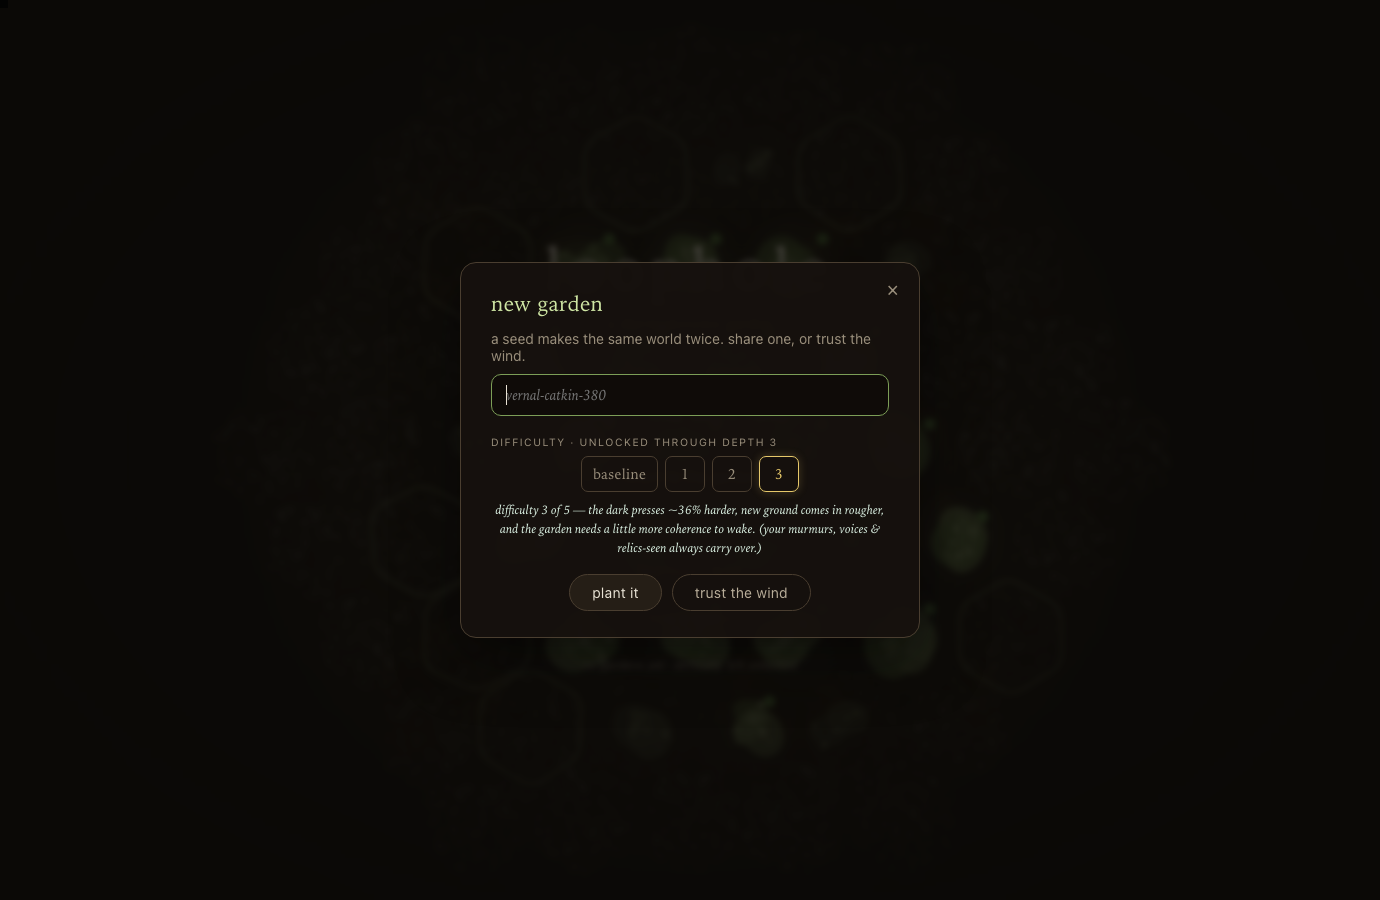
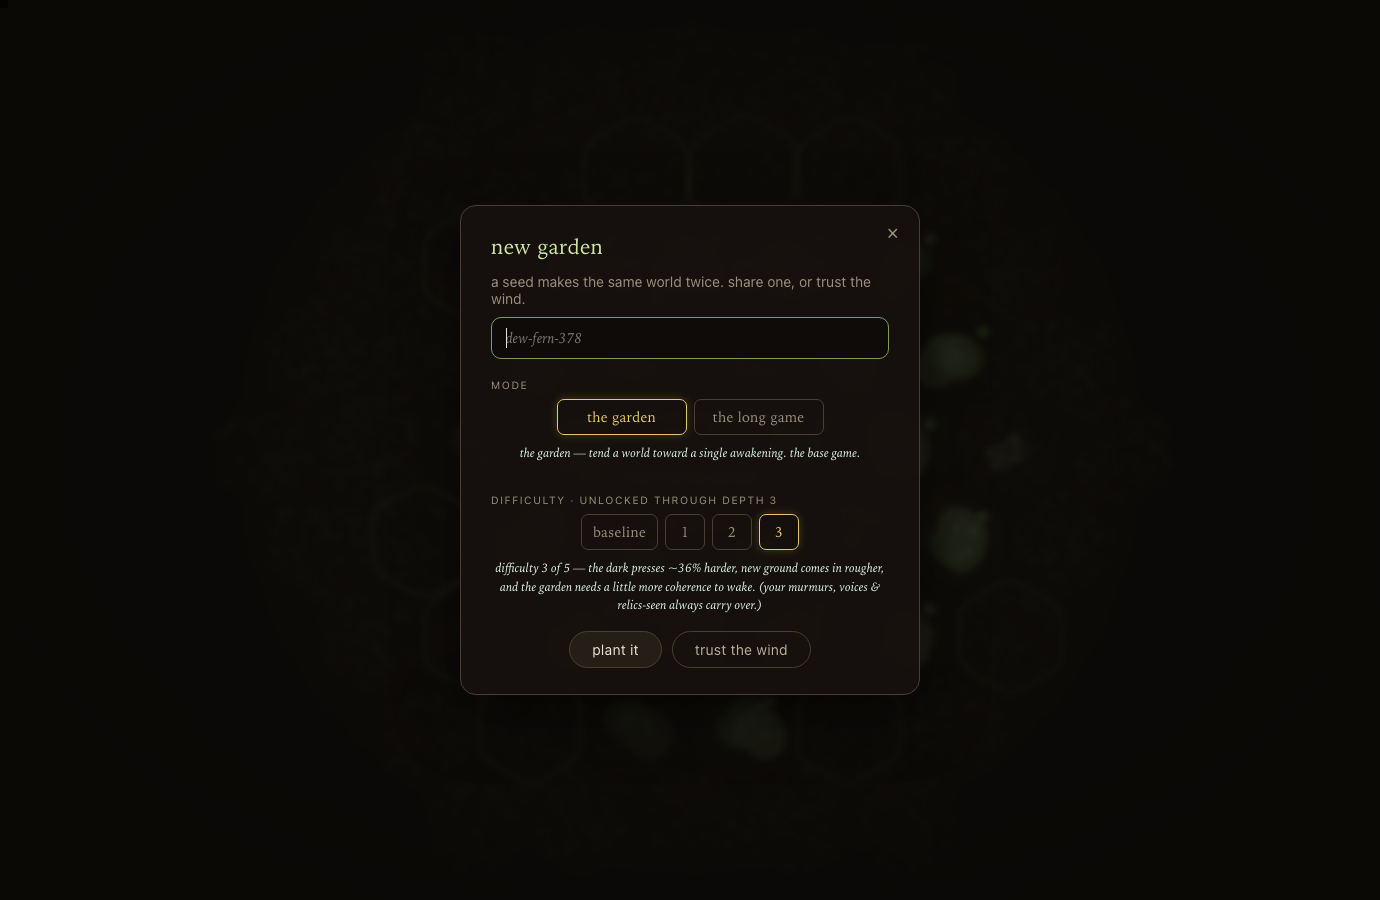
second game mode: the long game (flourish by turn 100)
The meta-game as a separate mode, so the base game stays stable and
debuggable while the deeper ideas grow in their own room (per your call).

- new-garden screen gains a MODE picker (the garden / the long game),
  beside difficulty, each with a live description.
- "the garden" = the base game, untouched (awaken toward coherence).
- "the long game" = no single awakening. cultivate the richest, most
  lasting world you can; at turn 100 it's scored on what it SUSTAINS —
  coherence held, scale, diversity, blossoms, network, disorder devoured,
  epochs reached. a grade from "a fragile beginning" to "a flourishing
  world". best flourish tracked + shown on the title.

Holistic note: the score rewards DIVERSITY (×45/kind) + blooms + network +
eaten, so the moss-carpet "spam space" idle scores low — the long game's
own measure discourages the exploit and rewards a real ecology. This is
also the natural home for the future blueprint/fauna scoring.

core: game.mode (serialized); flourishScore/Grade/Breakdown; longEnd at
turn 100; beginCoalescence is a no-op in longgame (core-enforced, not just
UI). ui: mode threaded through newRun; long-game HUD; onLongEnd score
overlay; coalesce panel hidden in longgame.

verified: harness ALL PASS / 24-24 (garden mode unchanged); mode picker +
end screen render (shots/newgarden.png, shots/longend.png); flourish scores
computed across seeds.

Changed region(s): [[0.3428, 0.4356, 0.6543, 0.7467], [0.3428, 0.2489, 0.6232, 0.4356]]

diff --git a/loophole/js/ui.js b/loophole/js/ui.js
@@ -16,7 +16,7 @@
   const KEY = 'loophole_v1';
   const defaultMeta = () => ({
     echoes: [], codex: [], runs: 0, wins: 0, best: null,
-    asc: 0, muted: false, values: false, hints: [], quotes: [],
+    asc: 0, muted: false, values: false, hints: [], quotes: [], bestFlourish: null,
   });
   let store = { v: 1, meta: defaultMeta(), run: null };
   try {
@@ -377,8 +377,13 @@
   function updateHUD() {
     if (!game) return;
     const st = C().STAGES[game.stage - 1];
-    $('stagename').textContent = st.name + ' · ' + C().roman(game.stage - 1);
-    $('stageblurb').textContent = st.blurb;
+    if (game.mode === 'longgame') {
+      $('stagename').textContent = 'the long game · ✦ ' + game.flourishScore();
+      $('stageblurb').textContent = st.name + ' — flourish by turn ' + game.turn + '/100';
+    } else {
+      $('stagename').textContent = st.name + ' · ' + C().roman(game.stage - 1);
+      $('stageblurb').textContent = st.blurb;
+    }
     if (LP.Music && LP.Music.running) LP.Music.setState(game.stage, game.coherence());
     $('order').textContent = Math.floor(game.order);
     $('income').textContent = lastIncome != null ? ('+' + lastIncome) : '';
@@ -418,9 +423,9 @@
       rb.textContent = coReady ? '❀' : (n || '');
       $('railbtn').classList.toggle('ripe', n > 0);
     }
-    /* coalesce panel */
+    /* coalesce panel (the long game has no single awakening — it runs to turn 100) */
     const cp = $('coalesce');
-    if (game.stage === 6 && !game.over) {
+    if (game.stage === 6 && !game.over && game.mode !== 'longgame') {
       cp.classList.remove('hidden');
       const checks = game.coalesceChecks();
       $('cochecks').innerHTML = checks.map(c =>
@@ -697,6 +702,7 @@
           break;
         case 'dissolveWarn': toast('the garden thins — coherence below 22% (' + e.streak + '/3)', 'warn', 5200); break;
         case 'dissolved': onDissolved(); break;
+        case 'longEnd': onLongEnd(e.score, e.grade); break;
         case 'saved': toast('« ' + e.via + ' » intercedes. the garden holds.', 'good', 6000); buildRail(); break;
         case 'coalesceReady': hint('coalesce'); break;
         case 'demon': break;
@@ -1230,6 +1236,33 @@
     }, { dismissible: false }), 900);
   }
 
+  /* the long game's ending: turn 100, a flourish score, no single awakening */
+  function onLongEnd(score, grade) {
+    AU.coalesce(); music('coalesce');
+    meta.runs++; meta.wins++;
+    if (meta.bestFlourish == null || score > meta.bestFlourish) meta.bestFlourish = score;
+    store.run = null; save();
+    const g = game;
+    const rows = g.flourishBreakdown().map(([label, val]) => `<div>${label}</div><div>+${val}</div>`).join('');
+    const best = meta.bestFlourish;
+    setTimeout(() => pushOverlay((wrap, close) => {
+      const box = el('div', 'panelbox endbox');
+      box.innerHTML = `
+        <div class="paneltitle">a hundred turns</div>
+        <p class="endnote">${grade}.</p>
+        <div class="flourishbig">✦ ${score}${best > score ? '' : ' <span class="muted small">— your best</span>'}</div>
+        <div class="statgrid">${rows}</div>
+        ${statsHTML(g)}
+        <div class="endbtns">
+          <button id="e-again">grow another</button>
+          <button id="e-title" class="ghostbtn">title</button>
+        </div>`;
+      box.querySelector('#e-again').onclick = () => { close(); newRun(undefined, g.asc, 'longgame'); };
+      box.querySelector('#e-title').onclick = () => { close(); showTitle(); };
+      wrap.appendChild(box);
+    }, { dismissible: false }), 900);
+  }
+
   function beginCoalescence() {
     if (!game.coalesceReady()) return;
     game.beginCoalescence();
@@ -1304,7 +1337,8 @@
     $('t-meta').textContent =
       (meta.runs ? `${meta.runs} garden${meta.runs > 1 ? 's' : ''} grown · ${meta.wins} awakened` : 'no gardens yet') +
       (meta.best ? ` · swiftest awakening ${meta.best} turns` : '') +
-      (meta.asc ? ` · difficulty ${meta.asc}/5 unlocked` : '');
+      (meta.asc ? ` · difficulty ${meta.asc}/5 unlocked` : '') +
+      (meta.bestFlourish ? ` · best flourish ✦ ${meta.bestFlourish}` : '');
   }
   function hideTitle() {
     $('title').classList.add('hidden');
@@ -1320,11 +1354,16 @@
     if (!d) return 'baseline — the garden at its native slope, as the second law wrote it.';
     return `difficulty ${d} of 5 — the dark presses ~${d * 12}% harder, new ground comes in rougher, and the garden needs a little more coherence to wake. (your murmurs, voices & relics-seen always carry over.)`;
   }
+  function modeLine(m) {
+    return m === 'longgame'
+      ? 'the long game — no single waking. cultivate the richest, most lasting world you can; scored at turn 100 on coherence, scale, diversity, life. (where the deeper game will grow.)'
+      : 'the garden — tend a world toward a single awakening. the base game.';
+  }
 
-  function newRun(seed, depth) {
+  function newRun(seed, depth, mode) {
     if (!seed) seed = C().prettySeed(Math.random);
     const d = depth == null ? meta.asc : Math.max(0, Math.min(meta.asc, depth));
-    game = new Game(seed, { ascension: d, echoes: meta.echoes });
+    game = new Game(seed, { ascension: d, echoes: meta.echoes, mode: mode || 'garden' });
     lastIncome = null; prevC = null; quotesThisRun = 0;
     R.attach(game);
     hideTitle();
@@ -1416,6 +1455,8 @@
     if (kind === 'murmurs') { meta.echoes = [0, 1, 2, 3, 4, 5, 6, 7]; meta.quotes = [0, 1, 4, 10, 20]; murmursOverlay(); }
     if (kind === 'voice') { meta.quotes = []; surfaceQuote(); }
     if (kind === 'won') { meta.asc = 2; game.asc = 1; game.stats.peakC = 0.91; pushOverlay(winOverlay(), { dismissible: false }); }
+    if (kind === 'long') { game.mode = 'longgame'; game.turn = 100; updateHUD(); } /* HUD in long-game mode */
+    if (kind === 'longend') { game.mode = 'longgame'; game.turn = 100; onLongEnd(game.flourishScore(), game.flourishGrade(game.flourishScore())); }
     if (kind === 'kit') {
       /* a developed build: a few cultivars + relics so the kit + compounding fill out */
       game.insight = 8; game.legendDiscount = 5;
@@ -1502,10 +1543,20 @@
         }</div>
           <div class="diffdesc" id="diffdesc"></div>
         </div>` : '';
+      const modepicker = `
+        <div class="diffpick">
+          <div class="codexhead">mode</div>
+          <div class="diffrow" id="moderow">
+            <button class="diffchip wide" data-m="garden">the garden</button>
+            <button class="diffchip wide" data-m="longgame">the long game</button>
+          </div>
+          <div class="diffdesc" id="modedesc"></div>
+        </div>`;
       pushOverlay(panelOverlay(`
         <div class="paneltitle">new garden</div>
         <p class="muted">a seed makes the same world twice. share one, or trust the wind.</p>
         <input id="seedin" type="text" spellcheck="false" placeholder="${C().prettySeed(Math.random)}">
+        ${modepicker}
         ${picker}
         <div class="endbtns">
           <button id="s-go">plant it</button>
@@ -1514,7 +1565,7 @@
         wire(box, close) {
           const inp = box.querySelector('#seedin');
           inp.focus();
-          let pickedD = meta.asc;
+          let pickedD = meta.asc, pickedMode = 'garden';
           const row = box.querySelector('#diffrow'), desc = box.querySelector('#diffdesc');
           const paint = () => {
             row.querySelectorAll('.diffchip').forEach(c => c.classList.toggle('on', +c.dataset.d === pickedD));
@@ -1524,10 +1575,17 @@
             row.querySelectorAll('.diffchip').forEach(c => c.onclick = () => { pickedD = +c.dataset.d; paint(); });
             paint();
           }
-          const go = () => { close(); newRun(inp.value.trim() || undefined, meta.asc ? pickedD : undefined); };
+          const mrow = box.querySelector('#moderow'), mdesc = box.querySelector('#modedesc');
+          const paintMode = () => {
+            mrow.querySelectorAll('.diffchip').forEach(c => c.classList.toggle('on', c.dataset.m === pickedMode));
+            mdesc.textContent = modeLine(pickedMode);
+          };
+          mrow.querySelectorAll('.diffchip').forEach(c => c.onclick = () => { pickedMode = c.dataset.m; paintMode(); });
+          paintMode();
+          const go = () => { close(); newRun(inp.value.trim() || undefined, meta.asc ? pickedD : undefined, pickedMode); };
           box.querySelector('#s-go').onclick = go;
           inp.onkeydown = e => { if (e.key === 'Enter') go(); };
-          box.querySelector('#s-rand').onclick = () => { close(); newRun(undefined, meta.asc ? pickedD : undefined); };
+          box.querySelector('#s-rand').onclick = () => { close(); newRun(undefined, meta.asc ? pickedD : undefined, pickedMode); };
         }
       }));
     };

diff --git a/loophole/js/core.js b/loophole/js/core.js
@@ -91,6 +91,7 @@
       opts = opts || {};
       this.seed = String(seed == null ? 'loophole' : seed);
       this.asc = opts.ascension || 0;
+      this.mode = opts.mode || 'garden'; /* 'garden' (awaken) | 'longgame' (flourish by turn 100) */
       this.rng = new RNG(this.seed + '|world');
       this.turn = 1;
       this.stage = 1;
@@ -607,9 +608,48 @@
       return this.stage === 6 && this.coalesceChecks().every(c => c.ok);
     }
     beginCoalescence() {
+      if (this.mode === 'longgame') return { ok: false }; /* the long game has no single awakening */
       if (!this.coalesceReady()) return { ok: false };
       this.over = true; this.won = true; this.awakened = true;
       return { ok: true };
+    }
+
+    /* the long game's measure: a world is scored on what it sustains, not on one
+       moment of waking — coherence held, scale, diversity, blossoms, network, disorder
+       eaten. the same things the macro/ecology layer will one day reward at scale. */
+    flourishScore() {
+      let live = 0; const kinds = new Set();
+      for (const c of this.cells.values()) if (c.pat) { live++; kinds.add(c.pat.t); }
+      const s = this.stats;
+      return Math.max(0, Math.round(
+        this.coherence() * 300 +
+        live * 4 +
+        kinds.size * 45 +
+        (s.blooms || 0) * 3 +
+        (s.netBest || 0) * 2 +
+        (s.eaten || 0) * 2 +
+        (this.stage - 1) * 50));
+    }
+    flourishGrade(score) {
+      if (score >= 2800) return 'a flourishing world';
+      if (score >= 2000) return 'a thriving garden';
+      if (score >= 1300) return 'a living garden';
+      if (score >= 700) return 'a tended plot';
+      return 'a fragile beginning';
+    }
+    flourishBreakdown() {
+      let live = 0; const kinds = new Set();
+      for (const c of this.cells.values()) if (c.pat) { live++; kinds.add(c.pat.t); }
+      const s = this.stats;
+      return [
+        ['coherence held', Math.round(this.coherence() * 300)],
+        ['living cells', live * 4],
+        ['diversity', kinds.size * 45],
+        ['blossoms', (s.blooms || 0) * 3],
+        ['widest network', (s.netBest || 0) * 2],
+        ['disorder devoured', Math.round((s.eaten || 0) * 2)],
+        ['epochs reached', (this.stage - 1) * 50],
+      ];
     }
 
     /* ── the turn pipeline ── */
@@ -673,7 +713,13 @@
       this._lossCheck(C, ev);
       this._timedOccasions(ev);
       if (C >= 0.70) this._occasion('c70', ev);
-      if (this.stage === 6 && this.coalesceReady()) ev.push({ t: 'coalesceReady' });
+      if (this.mode !== 'longgame' && this.stage === 6 && this.coalesceReady()) ev.push({ t: 'coalesceReady' });
+      /* the long game: no single awakening — cultivate a lasting world, scored at turn 100 */
+      if (this.mode === 'longgame' && this.turn >= 100 && !this.over) {
+        this.over = true; this.won = true;
+        const score = this.flourishScore();
+        ev.push({ t: 'longEnd', score, grade: this.flourishGrade(score) });
+      }
 
       this.emit('turnEnd', null, ev);
       this.tendsThisTurn = 0;
@@ -1391,7 +1437,7 @@
           return o;
         });
       return {
-        v: 2, seed: this.seed, asc: this.asc, s: this.rng.s,
+        v: 2, seed: this.seed, asc: this.asc, mode: this.mode, s: this.rng.s,
         turn: this.turn, stage: this.stage, order: this.order,
         carry: Math.round(this.carry * 1e6) / 1e6,
         terra: this.terra.map(t => [t.q, t.r, si(t.b)]),
@@ -1432,7 +1478,7 @@
       return o;
     }
     static fromJSON(o) {
-      const g = new Game(o.seed, { blank: true, ascension: o.asc });
+      const g = new Game(o.seed, { blank: true, ascension: o.asc, mode: o.mode });
       const SO = LP.CONTENT.SOIL_ORDER;
       g.rng.s = o.s >>> 0;
       g.terra = (o.terra || []).map(t => ({ q: t[0], r: t[1], b: SO[t[2]] || 'loam' }));

diff --git a/loophole/index.html b/loophole/index.html
@@ -326,6 +326,9 @@
     border: 1px solid var(--line2); background: transparent; color: var(--muted); border-radius: 7px; cursor: pointer; }
   .diffchip:hover { color: var(--dew); }
   .diffchip.on { border-color: var(--gold); color: var(--gold); box-shadow: 0 0 10px rgba(230,200,106,0.22); }
+  .diffchip.wide { min-width: 130px; }
+  .flourishbig { font-family: var(--serif); font-size: 40px; color: var(--gold); margin: 6px 0 14px; letter-spacing: .02em; }
+  .small { font-size: 12px; }
   .diffdesc { font-family: var(--serif); font-style: italic; font-size: 12.5px; color: var(--dew);
     text-align: center; min-height: 34px; line-height: 1.5; }
 
